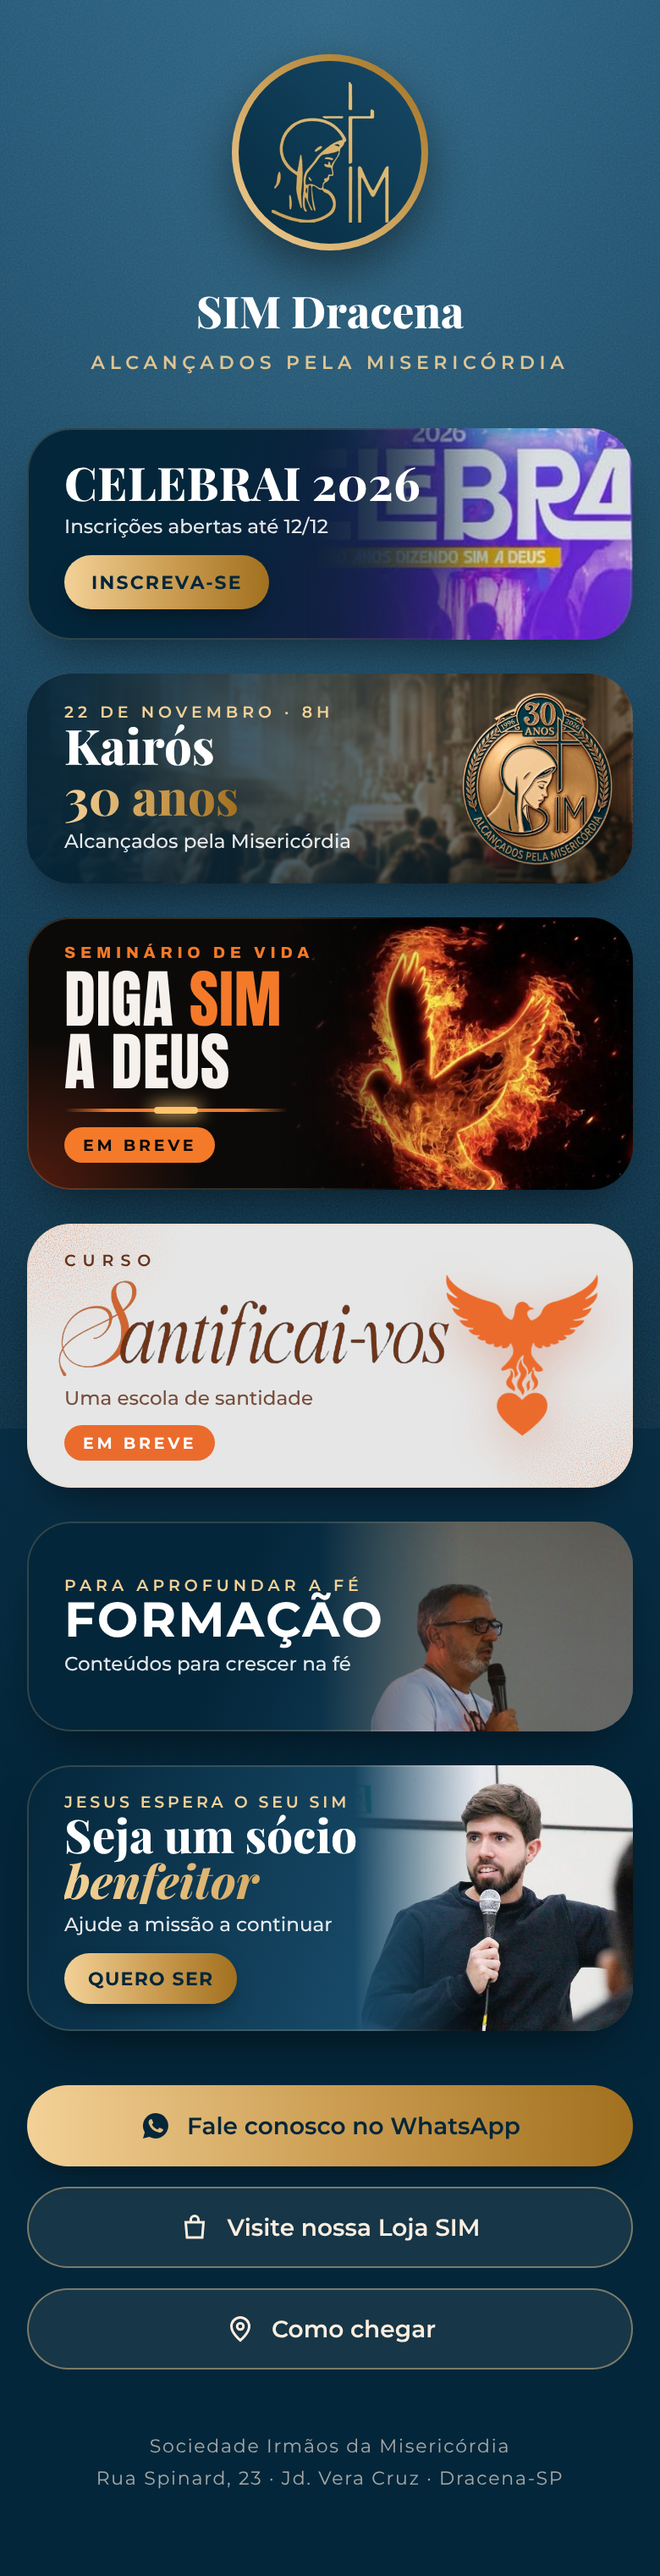
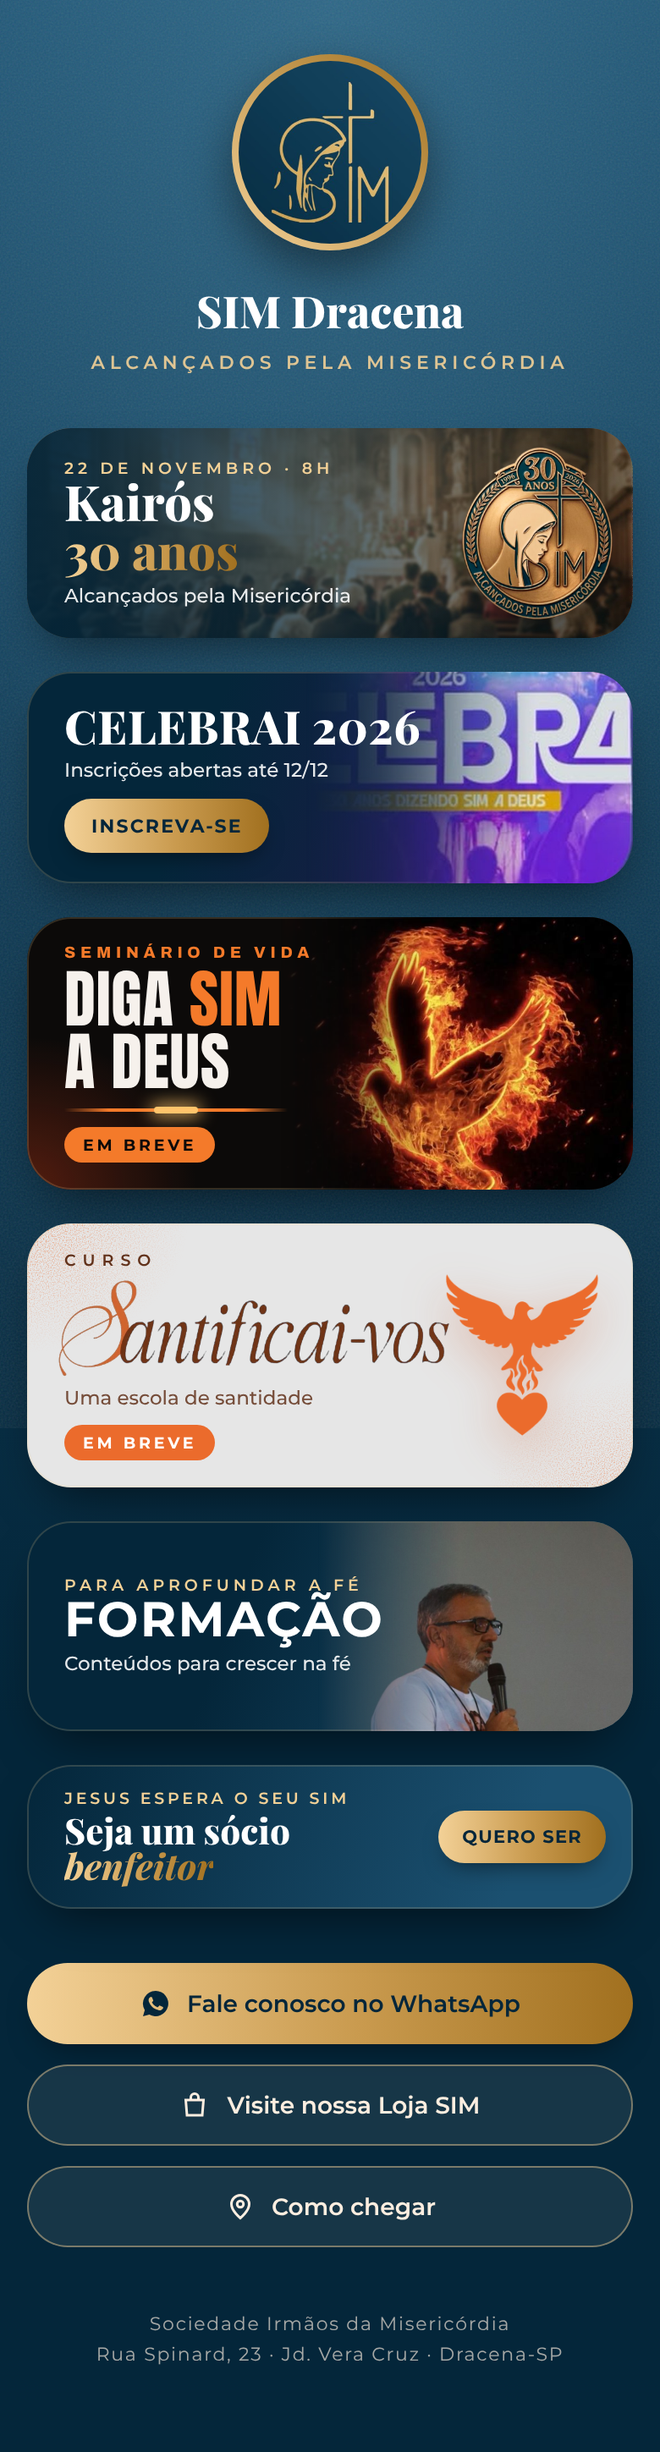
Links: Kairos e Celebrai como os dois primeiros; socio compacto sem foto
Claude-Session: https://claude.ai/code/session_01FbCrHFBteKdzqYMDJGtW6G

diff --git a/links/index.html b/links/index.html
@@ -90,17 +90,14 @@
             mask-image: linear-gradient(90deg, transparent, #000 45%);
   }
 
-  /* 1 · Sócio benfeitor — "O seu sim" */
-  .c-socio { background: linear-gradient(110deg, var(--azul-noite), var(--azul) 70%); }
-  .c-socio .foto { width: 46%; object-position: 50% 25%; -webkit-mask-image: linear-gradient(90deg, transparent, #000 45%); mask-image: linear-gradient(90deg, transparent, #000 45%); }
+  /* Sócio benfeitor — faixa compacta, sem foto */
+  .c-socio { min-height: 0; padding: 14px 16px 14px 0; background: linear-gradient(110deg, var(--azul-noite), var(--azul) 80%); }
   .c-socio small { white-space: nowrap; letter-spacing: .2em; }
-  .c-socio .txt { padding-top: 16px; padding-bottom: 16px; }
-  .c-socio strong { font-size: clamp(24px, 7vw, 32px); }
-  .c-socio strong em { display: block; }
+  .c-socio strong { font-size: clamp(18px, 5.4vw, 22px); margin-top: 3px; }
   .c-socio .cta {
-    display: inline-block; margin-top: 10px; padding: 8px 14px; border-radius: 999px; font-size: 11px; font-weight: 700;
+    flex: none; padding: 9px 14px; border-radius: 999px; font-size: 10.5px; font-weight: 700;
     letter-spacing: .06em; text-transform: uppercase; color: var(--azul-noite); background: var(--ouro);
-    box-shadow: 0 6px 14px -6px rgba(0,0,0,.6);
+    box-shadow: 0 6px 14px -6px rgba(0,0,0,.6); white-space: nowrap;
   }
 
   /* 0 · Celebrai 2026 */
@@ -200,16 +197,6 @@
   -->
   <ul class="abas">
     <li>
-      <a class="card c-celebrai" href="../site/eventos.html">
-        <img class="foto" src="img/celebrai.jpg" alt="" loading="eager">
-        <span class="txt">
-          <strong>CELEBRAI 2026</strong>
-          <span class="info">Inscrições abertas até 12/12</span>
-          <span class="cta">Inscreva-se</span>
-        </span>
-      </a>
-    </li>
-    <li>
       <a class="card c-kairos" href="../site/kairos.html">
         <img class="bg" src="img/igreja.jpg" alt="" loading="eager">
         <span class="txt">
@@ -218,6 +205,16 @@
           <span class="info">Alcançados pela Misericórdia</span>
         </span>
         <img class="selo" src="img/selo-30-anos.png" alt="">
+      </a>
+    </li>
+    <li>
+      <a class="card c-celebrai" href="../site/eventos.html">
+        <img class="foto" src="img/celebrai.jpg" alt="" loading="eager">
+        <span class="txt">
+          <strong>CELEBRAI 2026</strong>
+          <span class="info">Inscrições abertas até 12/12</span>
+          <span class="cta">Inscreva-se</span>
+        </span>
       </a>
     </li>
     <li>
@@ -254,13 +251,11 @@
     </li>
     <li>
       <a class="card c-socio" href="../site/socio.html">
-        <img class="foto" src="img/socio.jpg" alt="" loading="lazy">
         <span class="txt">
           <small>Jesus espera o seu sim</small>
           <strong>Seja um sócio <em class="ouro">benfeitor</em></strong>
-          <span class="info">Ajude a missão a continuar</span>
-          <span class="cta">Quero ser</span>
         </span>
+        <span class="cta">Quero ser</span>
       </a>
     </li>
   </ul>
